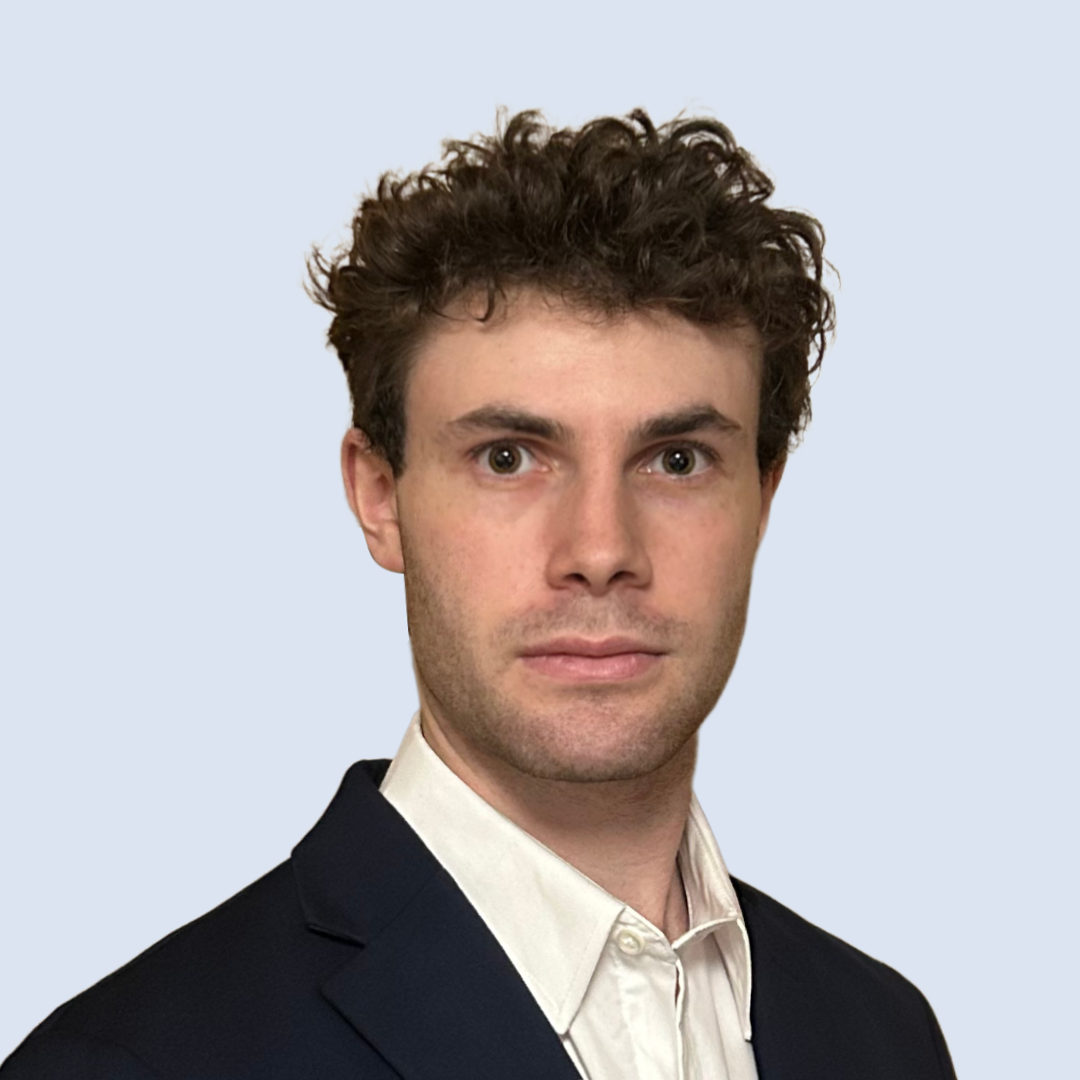
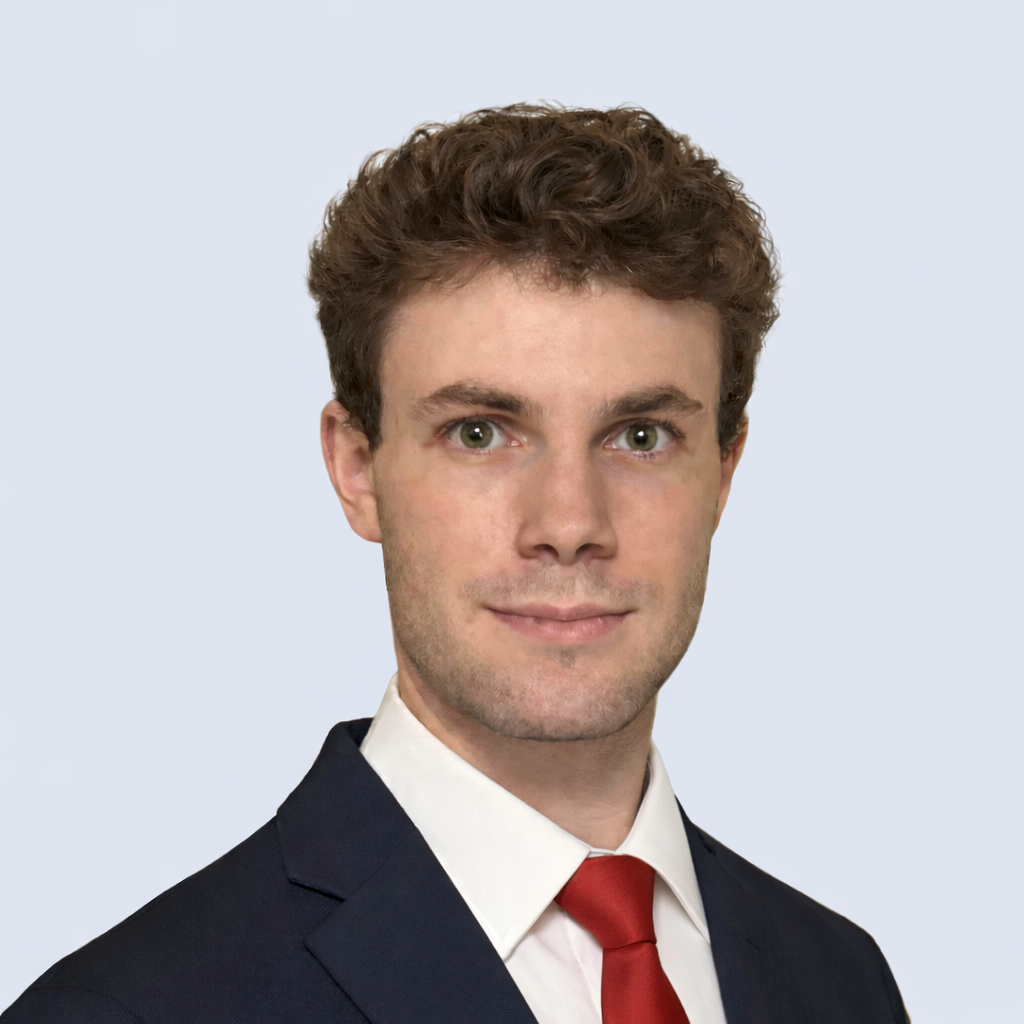
images

diff --git a/app/Components/HomePage/Services/Services.tsx b/app/Components/HomePage/Services/Services.tsx
@@ -3,37 +3,37 @@ import styles from './services.module.css'
 const services = [
     {
         title: 'Admin Dashboards',
-        description: 'Centralized control panels that allow administrators to manage users, monitor activity, and configure system settings.',
+        description: 'Centralized control panels to manage team activity, listings, and client pipelines.',
         firstImage: 'https://cdn.prod.website-files.com/6459eb6341c323e922c56917/6841660f6c5b185622e25873_rate%20all%20answers.png',
         secondImage: 'https://cdn.prod.website-files.com/6459eb6341c323e922c56917/6841673a834e5ed3c82e13c3_Rate%20AI%20Answers-%20color.png',
     },
     {
         title: 'KPI Dashboards',
-        description: 'Visual displays of key performance indicators to track progress toward business goals in real-time.',
+        description: 'Visual KPI dashboards to track leads, showings, and pipeline performance in real time.',
         firstImage: 'https://cdn.prod.website-files.com/6459eb6341c323e922c56917/6841660f6c5b185622e25873_rate%20all%20answers.png',
         secondImage: 'https://cdn.prod.website-files.com/6459eb6341c323e922c56917/6841673a834e5ed3c82e13c3_Rate%20AI%20Answers-%20color.png',
     },
     {
         title: 'Workflow Automation',
-        description: 'Tools and systems that streamline repetitive tasks and processes, reducing manual work and errors.',
+        description: 'Tools and systems that streamline listing, lead, and transaction tasks to reduce manual work.',
         firstImage: 'https://cdn.prod.website-files.com/6459eb6341c323e922c56917/6841660f6c5b185622e25873_rate%20all%20answers.png',
         secondImage: 'https://cdn.prod.website-files.com/6459eb6341c323e922c56917/6841673a834e5ed3c82e13c3_Rate%20AI%20Answers-%20color.png',
     },
     {
         title: 'API Integrations',
-        description: 'Seamless connections between software applications to enable data sharing and synchronized functionality.',
+        description: 'Seamless connections between CRMs, forms, and listing tools for synced data.',
         firstImage: 'https://cdn.prod.website-files.com/6459eb6341c323e922c56917/6841660f6c5b185622e25873_rate%20all%20answers.png',
         secondImage: 'https://cdn.prod.website-files.com/6459eb6341c323e922c56917/6841673a834e5ed3c82e13c3_Rate%20AI%20Answers-%20color.png',
     },
     {
         title: 'Real-Time Visualization',
-        description: 'Dynamic charts and graphs that update instantly with incoming data to support fast decision-making.',
+        description: 'Dynamic charts that update instantly to support fast decisions across the pipeline.',
         firstImage: 'https://cdn.prod.website-files.com/6459eb6341c323e922c56917/6841660f6c5b185622e25873_rate%20all%20answers.png',
         secondImage: 'https://cdn.prod.website-files.com/6459eb6341c323e922c56917/6841673a834e5ed3c82e13c3_Rate%20AI%20Answers-%20color.png',
     },
     {
         title: 'Performance Tracking',
-        description: 'Systems that monitor and measure operational metrics to evaluate efficiency and productivity.',
+        description: 'Systems that monitor and measure team performance to improve follow-up and outcomes.',
         firstImage: 'https://cdn.prod.website-files.com/6459eb6341c323e922c56917/6841660f6c5b185622e25873_rate%20all%20answers.png',
         secondImage: 'https://cdn.prod.website-files.com/6459eb6341c323e922c56917/6841673a834e5ed3c82e13c3_Rate%20AI%20Answers-%20color.png',
     }
@@ -44,7 +44,7 @@ export default function Services() {
         <div className="page-width section">
             <div className='section-header'>
                 <h2>Some of My Services</h2>
-                <p>Unique solutions I create to help you succeed</p>
+                <p>Unique solutions I create to help real estate teams succeed</p>
             </div>
             <div className={styles.grid}>
                 {services.map((service, i) => (

diff --git a/app/Components/HomePage/Hero/Hero.tsx b/app/Components/HomePage/Hero/Hero.tsx
@@ -8,12 +8,12 @@ import ReviewsRibbon from '../../ReviewsRibbon/ReviewsRibbon'
 import Image from 'next/image'
 
 const chips = [
-    { text: 'Workflow automation', icon: ArrowPathIcon },
-    { text: 'Spreadsheet automation', icon: TableCellsIcon },
-    { text: 'API integrations', icon: LinkIcon },
-    { text: 'KPI dashboards', icon: Squares2X2Icon },
-    { text: 'Automated reporting', icon: PresentationChartLineIcon },
-    { text: 'Performance tracking', icon: ArrowTrendingUpIcon },
+    { text: 'Lead routing', icon: ArrowPathIcon },
+    { text: 'Listing intake', icon: TableCellsIcon },
+    { text: 'CRM syncing', icon: LinkIcon },
+    { text: 'Pipeline dashboards', icon: Squares2X2Icon },
+    { text: 'Offer tracking', icon: PresentationChartLineIcon },
+    { text: 'Showing follow-ups', icon: ArrowTrendingUpIcon },
 ];
 
 const data = [
@@ -48,12 +48,13 @@ export default function Hero() {
                 <div>
                     <h1 className={styles.title}>
                         <span>
-                            Save <span style={{ color: 'rgb(var(--primary-accent))' }}>10+ Hours</span> a Week With <span className={styles.highlightedText}>Automation</span>.
+                            Automate Your <span style={{ color: 'rgb(var(--primary-accent))' }}>Real Estate</span> <span className={styles.highlightedText}>Business</span>.
                         </span>
                     </h1>
 
                     <h3 className={styles.subtitle}>
-                        Turn your <span>manual tasks</span> into <span className={styles.boldText}> automated systems</span>.
+                        Turn your <span>listing and lead busywork</span> into
+                        <span className={styles.boldText}> automated systems</span>.
                     </h3>
 
                     {/* 🌈 Chips with custom HSL hue */}
@@ -92,7 +93,7 @@ export default function Hero() {
                                 }
                             }}
                         >
-                            <p>Book My FREE Audit – Only 3 Spots Left!</p>
+                            <p>Book My FREE Real Estate Audit – Only 3 Spots Left!</p>
                         </button>
                     </div>
 
@@ -108,7 +109,7 @@ export default function Hero() {
                             width={1080}
                             height={1080}
                             src={'/hero-graphic.png'}
-                            alt="automation"
+                            alt="real estate automation"
                         />
                     </div>
                 </div>

diff --git a/app/Components/ThreeSteps/ThreeSteps.tsx b/app/Components/ThreeSteps/ThreeSteps.tsx
@@ -10,19 +10,19 @@ export default function ThreeSteps() {
             number: "01",
             title: "Book your free audit call",
             description:
-                "Tell me about your business, your current tools, and where you’re losing time each week.",
+                "Tell me about your team, your tools, and where you’re losing time each week.",
         },
         {
             number: "02",
             title: "Get a custom automation blueprint",
             description:
-                "I map your workflows, identify quick wins, and design a simple, ROI-focused automation plan.",
+                "I map your lead-to-close workflow, identify quick wins, and design a simple, ROI-focused automation plan.",
         },
         {
             number: "03",
             title: "Launch, refine, and scale",
             description:
-                "I build your automations, connect your tools, and refine everything based on real-world results.",
+                "I build your automations, connect your CRM and listing tools, and refine everything based on real-world results.",
         },
     ]
 
@@ -31,7 +31,7 @@ export default function ThreeSteps() {
             <div className="page-width section">
                 <div className="section-header">
                     <h2>Our Simple Process To Get Started</h2>
-                    <p>Three simple steps to go from manual tasks to fully automated systems.</p>
+                    <p>Three simple steps to go from manual tasks to streamlined real estate systems.</p>
                 </div>
 
                 <div className={styles.grid}>
@@ -63,7 +63,7 @@ export default function ThreeSteps() {
                             }
                         }}
                     >
-                        <p>Book My FREE Audit – Only 3 Spots Left!</p>
+                        <p>Book My FREE Real Estate Audit – Only 3 Spots Left!</p>
                     </button>
                 </div>
             </div>

diff --git a/app/Components/HomePage/About/About.tsx b/app/Components/HomePage/About/About.tsx
@@ -13,7 +13,7 @@ export default function About() {
                 <h2>Meet the Founder</h2>
             </div>
             <div className={`${styles.grid} grid2`}>
-                <img src={'/me.jpg'} />
+                <img src={'/me.png'} />
                 <PulseDot>
                     <p className={styles.aboutMe}>
                         {/* <span className={styles.text}>
@@ -31,7 +31,7 @@ export default function About() {
                         <span className={styles.text}>
                             <span className={styles.highlightedText}>My goal:</span> streamline operations so you can focus on what matters. <span className={styles.boldText}>Open to new projects.</span>
                         </span> */}
-                        <span>Hi, <span className={styles.boldText}>I'm Joel Carmenini</span>, the founder of Clear Automate. I started this company after seeing how many businesses were losing time on manual, repetitive work. With a background in software development, I build automation systems that help companies streamline operations and save hours every week.</span>
+                        <span>Hi, <span className={styles.boldText}>I'm Joel Carmenini</span>, the founder of Clear Automate. I started this company after seeing how many real estate teams were losing time on manual, repetitive work. With a background in software development, I build automation systems that help agents and brokerages streamline operations and save hours every week.</span>
                     </p>
                     <div className={styles.desktopStats}>
                         <div className={styles.stat}>

diff --git a/app/Components/Benifits/Benifits.tsx b/app/Components/Benifits/Benifits.tsx
@@ -13,19 +13,19 @@ export default function Benefits() {
         {
             icon: <ClockIcon />,
             title: "Saves Hours Weekly",
-            body: "Automate repetitive workflows so you don’t waste time on manual tasks.",
+            body: "Automate listing and lead workflows so you don’t waste time on manual tasks.",
             color: 45,
         },
         {
             icon: <ArrowPathIcon />,
             title: "Scales Effortlessly",
-            body: "Handle more work without needing to hire or micromanage.",
+            body: "Handle more listings and clients without needing to hire or micromanage.",
             color: 210,
         },
         {
             icon: <ExclamationTriangleIcon />,
             title: "Reduces Errors",
-            body: "Avoid forgotten steps and misplaced info with structured automations.",
+            body: "Avoid missed follow-ups and transaction steps with structured automations.",
             color: 0,
         },
 
@@ -52,7 +52,7 @@ export default function Benefits() {
     return (
         <Multicolumn
             header="What Our Clients Get"
-            subtitle="How automation saves time, cuts errors, and boosts ROI."
+            subtitle="How real estate automation saves time, cuts errors, and boosts ROI."
             cards={cards}
             dark={false}
         />

diff --git a/app/Components/HomePage/Testimonials/Testimonials.tsx b/app/Components/HomePage/Testimonials/Testimonials.tsx
@@ -12,9 +12,9 @@ const testimonialsData = [
     {
         id: 1,
         name: "Charles",
-        jobTitle: "Project Manager",
+        jobTitle: "Team Lead",
         profilePic: "/profile pic.jpg",
-        text: "Apex Automation helped us cut down hours of manual work with smart, efficient systems. The team was professional, easy to work with, and delivered great results. Highly recommend for anyone looking to streamline their business."
+        text: "Clear Automate helped our real estate team cut down hours of manual work with smart, efficient systems. Professional, easy to work with, and delivered great results."
     }
 ];
 
@@ -94,7 +94,7 @@ export default function Testimonials() {
         <div className="page-width section">
             <div className="section-header">
                 <h2>What My First Clients Are Saying</h2>
-                <p>Genuine feedback from the businesses I've supported</p>
+                <p>Genuine feedback from the teams I've supported</p>
             </div>
             <div className={styles.testimonials}>
                 <button onClick={goPrev} className={styles.slideBtn}>

diff --git a/app/Components/HomePage/FAQsSection/FAQsSection.tsx b/app/Components/HomePage/FAQsSection/FAQsSection.tsx
@@ -4,7 +4,7 @@ export default function FAQsSection() {
     const faqs = [
         {
             question: "How do I know automation will actually save my team time?",
-            answer: "Every build is designed to eliminate repetitive work. Most clients save 10+ hours per week instantly with their first automation.",
+            answer: "Every build is designed to eliminate repetitive work. Most real estate teams save 10+ hours per week with their first automation.",
         },
         {
             question: "We’re not a tech-savvy company… will this still work for us?",
@@ -20,7 +20,7 @@ export default function FAQsSection() {
         },
         {
             question: "Is this expensive?",
-            answer: "Clear Automate is structured to deliver fast ROI. Most clients cover the entire cost through saved time and reduced errors within weeks.",
+            answer: "Clear Automate is structured to deliver fast ROI. Most teams cover the entire cost through saved time and reduced errors within weeks.",
         },
         {
             question: "What if we don’t know exactly what needs automating?",

diff --git a/app/Components/Contact/Contact.tsx b/app/Components/Contact/Contact.tsx
@@ -84,7 +84,7 @@ export default function Contact() {
                 <textarea
                     className={`text-input ${styles.textArea}`}
                     rows={3}
-                    placeholder="Describe your company briefly"
+                    placeholder="Describe your team or brokerage briefly"
                     value={company}
                     onChange={(e) => setCompany(e.target.value)}
                     required
@@ -95,7 +95,7 @@ export default function Contact() {
                     className={`button-solid ${styles.btn} ${success ? styles.btnSubmited : ''}`}
                     disabled={loading || success} // only submit once if success
                 >
-                    {!loading && !success && 'Book My FREE Audit – Only 3 Spots Left!'}
+                    {!loading && !success && 'Book My FREE Real Estate Audit – Only 3 Spots Left!'}
                     {loading && 'Sending...'}
                     {!loading && success && <><CheckCircleIcon className={styles.checkIcon} /> <p>Sent — I'll get back to you shortly!</p></>}
                 </button>

diff --git a/app/Components/HomePage/Free/Free.tsx b/app/Components/HomePage/Free/Free.tsx
@@ -11,7 +11,7 @@ export default function Free() {
                 <PulseDot>
                     <p>
                         <span className={styles.text}>
-                            As a new business owner, I’m offering to build <span className={styles.boldText}>your service for free</span>. If you like it and it helps you, then you can choose to pay—no obligation.
+                            As a new business owner, I’m offering to build <span className={styles.boldText}>your real estate automation for free</span>. If you like it and it helps you, then you can choose to pay—no obligation.
                         </span>
                         <br /><br />
                         <span className={styles.text}>

diff --git a/app/Components/Stats/Stats.tsx b/app/Components/Stats/Stats.tsx
@@ -6,15 +6,15 @@ export default function Stats() {
         // 🔥 High-Converting Stats (BIG STAT + small text)
         {
             title: "10+",
-            body: "Hours saved per week on average through automation",
+            body: "Hours saved per week on average for busy agents and teams",
         },
         {
             title: "8+",
-            body: "Custom workflows, dashboards, and automations built.",
+            body: "Listing, lead, and transaction workflows built.",
         },
         {
             title: "50%+",
-            body: "Average reduction in manual steps after automation.",
+            body: "Average reduction in manual steps from listing to close.",
         },
     ];
 

diff --git a/app/works/page.tsx b/app/works/page.tsx
@@ -6,8 +6,8 @@ export default function Page() {
         <div className="page-width">
             <div className='section'>
                 <div className={`section-header ${styles.title}`}>
-                    <h2>Projects That Drive Business Success</h2>
-                    <p>Real-world dashboards and tools designed to streamline workflows and boost performance.</p>
+                    <h2>Projects That Drive Real Estate Success</h2>
+                    <p>Real-world dashboards and tools designed to streamline workflows and boost performance for busy teams.</p>
                 </div>
                 <div className='grid3'>
                     <WorkCard

diff --git a/app/Components/ReviewCarousel/ReviewCarousel.tsx b/app/Components/ReviewCarousel/ReviewCarousel.tsx
@@ -82,8 +82,8 @@ export default function ReviewsCarousel() {
     return (
         <div className='section page-width'>
             <div className='section-header'>
-                <h2>What Businesses Say</h2>
-                <p>Insights from businesses using our automations.</p>
+                <h2>What Real Estate Teams Say</h2>
+                <p>Insights from agents and brokerages using our automations.</p>
             </div>
             <Script
                 src="https://widget.reviews.io/carousel-inline-iframeless/dist.js?_t=2025072216"
